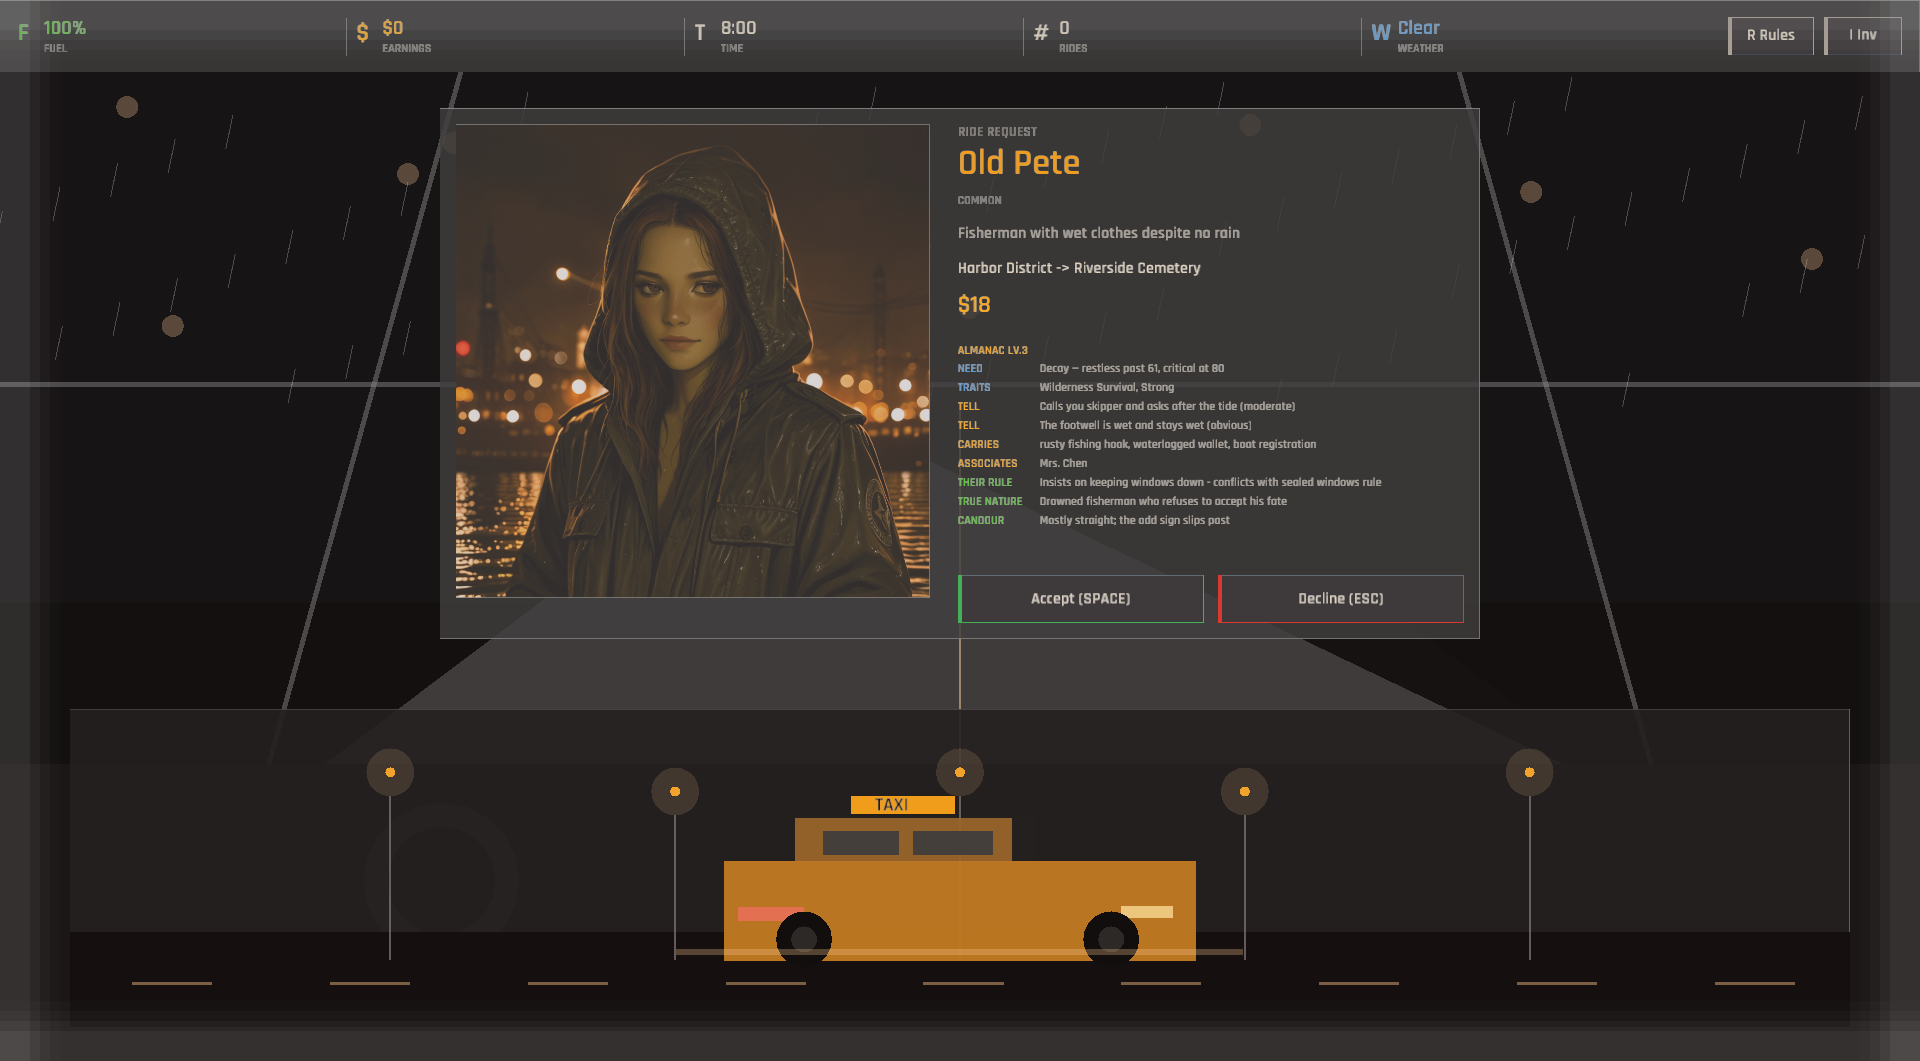
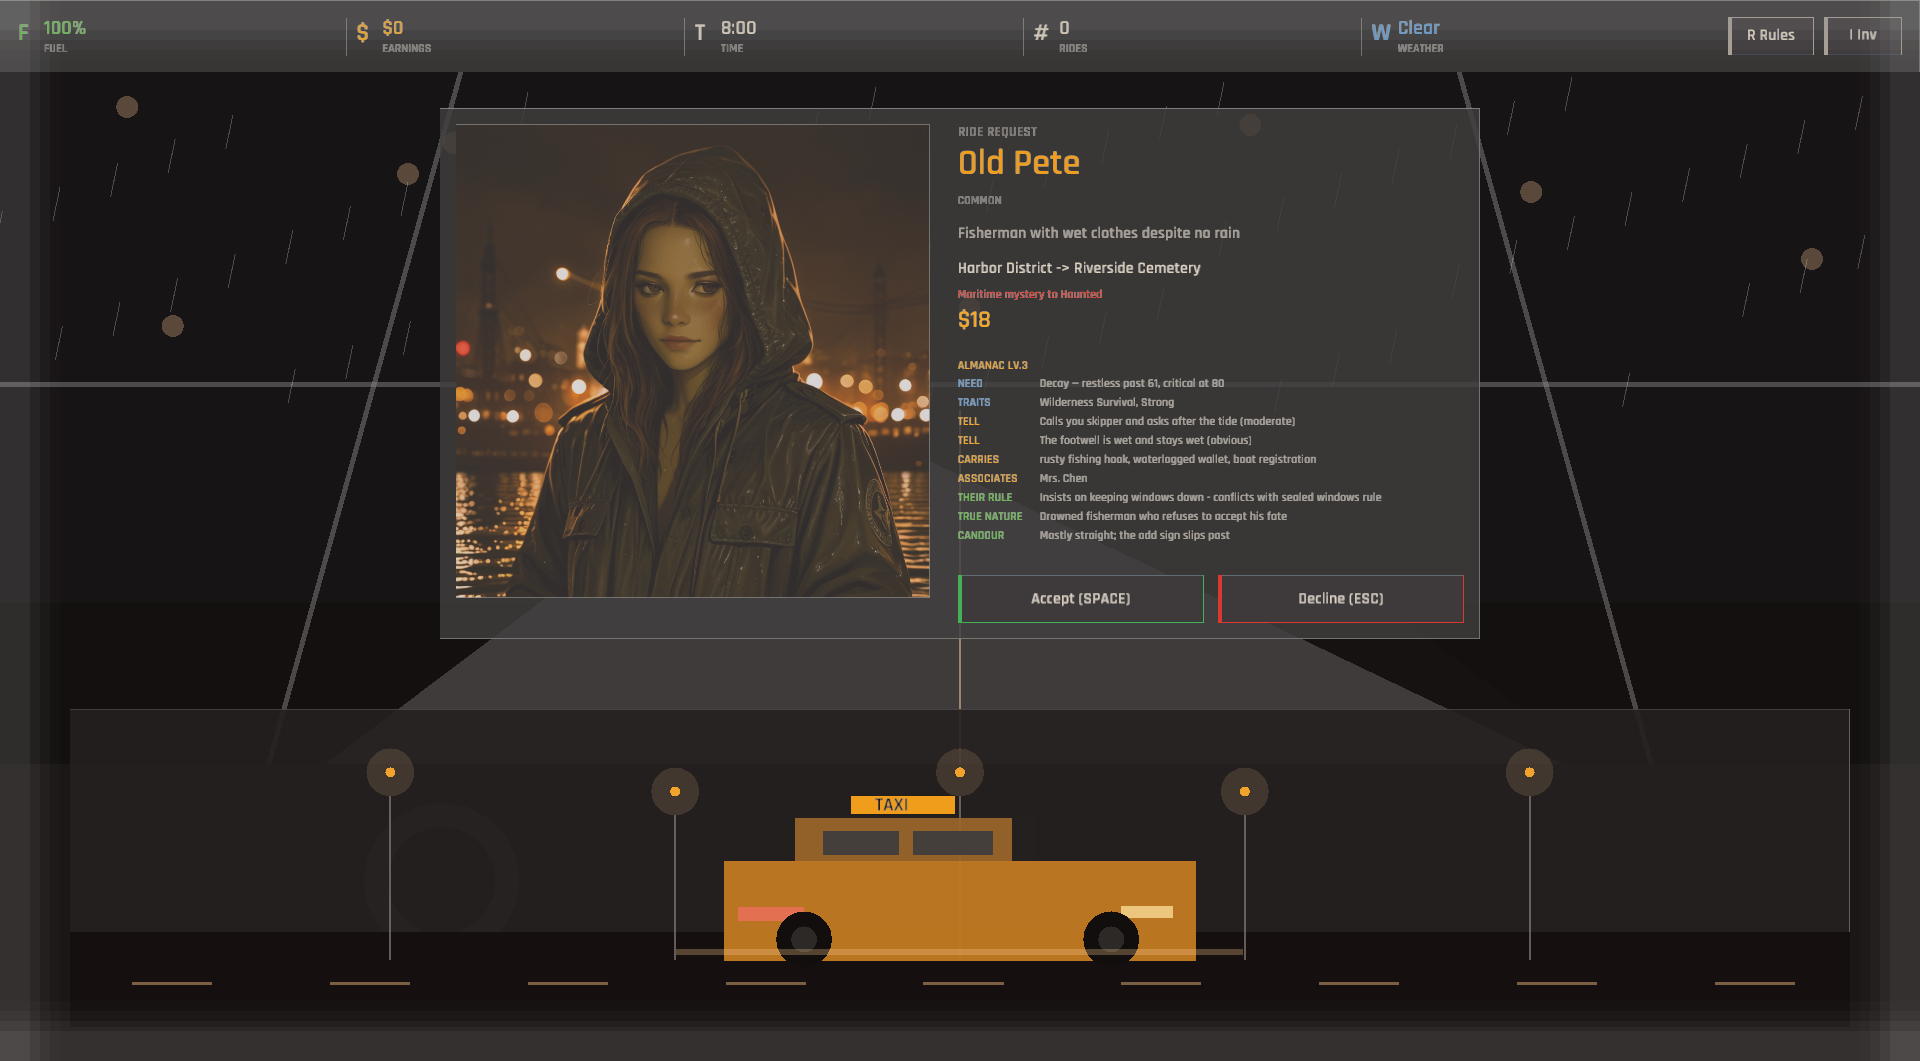
The dispatcher says what kind of places these are (show location atmosphere and risk on the ride request)
Every location authors an `atmosphere` — "Maritime mystery", "Haunted",
"Childhood terror" — beside the `riskLevel` that has been feeding route
costs all along through the passenger's pickup. The risk did the work and
the line explaining it was read by nothing, so the ride request said
"Harbor District -> Riverside Cemetery" and left the driver to accept or
decline on the strength of two place names.

The request now carries "Maritime mystery to Haunted" under the route,
coloured by the worse of the two risk levels against the authored risk
tiers. The information was always there — a cemetery run costs more and
draws more — and this puts it in front of the decision it belongs to.
Locations are not passengers, so it is not gated behind the almanac: a
driver knows their own city.

Three tests. Every location must describe itself, since a blank atmosphere
leaves a bare risk colour with no reason attached. Risk levels must sit
inside the authored scale, or the colouring means nothing — and this one
records a wrinkle worth remembering, because locations run to 5 while
`RISK.MAX_RISK_LEVEL` is 4. Those are different scales, which is exactly
the conflation that capped the two most dangerous pickups eight nights
ago, so the assertion allows the extra step deliberately rather than
tightening a bound that would be wrong. Third, every pickup and
destination a passenger names must be a real location: an unknown one
would draw a route to nowhere and silently default the pickup's risk.
[…]

Changed region(s): [[0.5, 0.2488, 0.7188, 0.5287]]

diff --git a/src/data/location.rs b/src/data/location.rs
@@ -20,3 +20,65 @@ pub struct Location {
     #[serde(rename = "fareModifier", default = "default_fare_modifier")]
     pub fare_modifier: f32,
 }
+
+#[cfg(test)]
+mod tests {
+    use crate::data::loader::{load_constants, load_locations, load_passengers};
+
+    /// Every location must describe itself. The atmosphere is shown on the
+    /// ride request next to the risk it explains, so a blank one leaves the
+    /// player a bare risk number with no reason attached.
+    #[test]
+    fn every_location_has_an_atmosphere() {
+        for location in load_locations() {
+            assert!(
+                !location.atmosphere.trim().is_empty(),
+                "{} has no atmosphere",
+                location.name
+            );
+        }
+    }
+
+    /// Risk levels must sit inside the range the risk constants describe, or
+    /// the colouring on the ride request means nothing.
+    #[test]
+    fn location_risk_sits_within_the_authored_scale() {
+        let risk = load_constants().risk;
+        for location in load_locations() {
+            assert!(
+                location.risk_level >= risk.safe,
+                "{} is below the safe floor",
+                location.name
+            );
+            assert!(
+                location.risk_level <= risk.max_risk_level + 1,
+                "{} at risk {} exceeds the authored scale",
+                location.name,
+                location.risk_level
+            );
+        }
+    }
+
+    /// Every pickup and destination a passenger names must be a real
+    /// location, or the ride request shows a route to nowhere and the
+    /// pickup's risk silently defaults.
+    #[test]
+    fn every_passenger_route_names_real_locations() {
+        let locations = load_locations();
+        let known: Vec<&str> = locations.iter().map(|l| l.name.as_str()).collect();
+        for passenger in load_passengers() {
+            assert!(
+                known.contains(&passenger.pickup.as_str()),
+                "{} is picked up at unknown location {:?}",
+                passenger.name,
+                passenger.pickup
+            );
+            assert!(
+                known.contains(&passenger.destination.as_str()),
+                "{} is bound for unknown location {:?}",
+                passenger.name,
+                passenger.destination
+            );
+        }
+    }
+}

diff --git a/src/screens/game_screens/ride_request.rs b/src/screens/game_screens/ride_request.rs
@@ -98,7 +98,43 @@ pub fn draw_ride_request(
             21.0,
             colors::TEXT_PRIMARY,
             2,
-        ) + 18.0;
+        ) + 4.0;
+
+        // What kind of places these are. Every location authors an
+        // `atmosphere` and a `riskLevel`; the risk has been feeding route
+        // costs all along through the pickup, while the atmosphere naming the
+        // reason for it was read by nothing. A driver deciding whether to take
+        // a fare should know they are being called out to a cemetery.
+        if let Some(data) = game_data {
+            let describe = |name: &String| {
+                data.get_location(name)
+                    .map(|location| (location.atmosphere.as_str(), location.risk_level))
+            };
+            if let (Some((from, from_risk)), Some((to, to_risk))) = (
+                describe(&passenger.pickup),
+                describe(&passenger.destination),
+            ) {
+                let worst = from_risk.max(to_risk);
+                let colour = if worst >= data.constants.risk.high_risk {
+                    colors::FUEL_CRITICAL
+                } else if worst > data.constants.risk.low_risk {
+                    colors::ACCENT_WARNING
+                } else {
+                    colors::TEXT_MUTED
+                };
+                y = draw_wrapped_text(
+                    &format!("{} to {}", from, to),
+                    info_x,
+                    y,
+                    info_w,
+                    fonts::SIZE_XS,
+                    15.0,
+                    colour,
+                    2,
+                );
+            }
+        }
+        y += 14.0;
 
         draw_ui_text(
             &format!("${}", passenger.fare),
